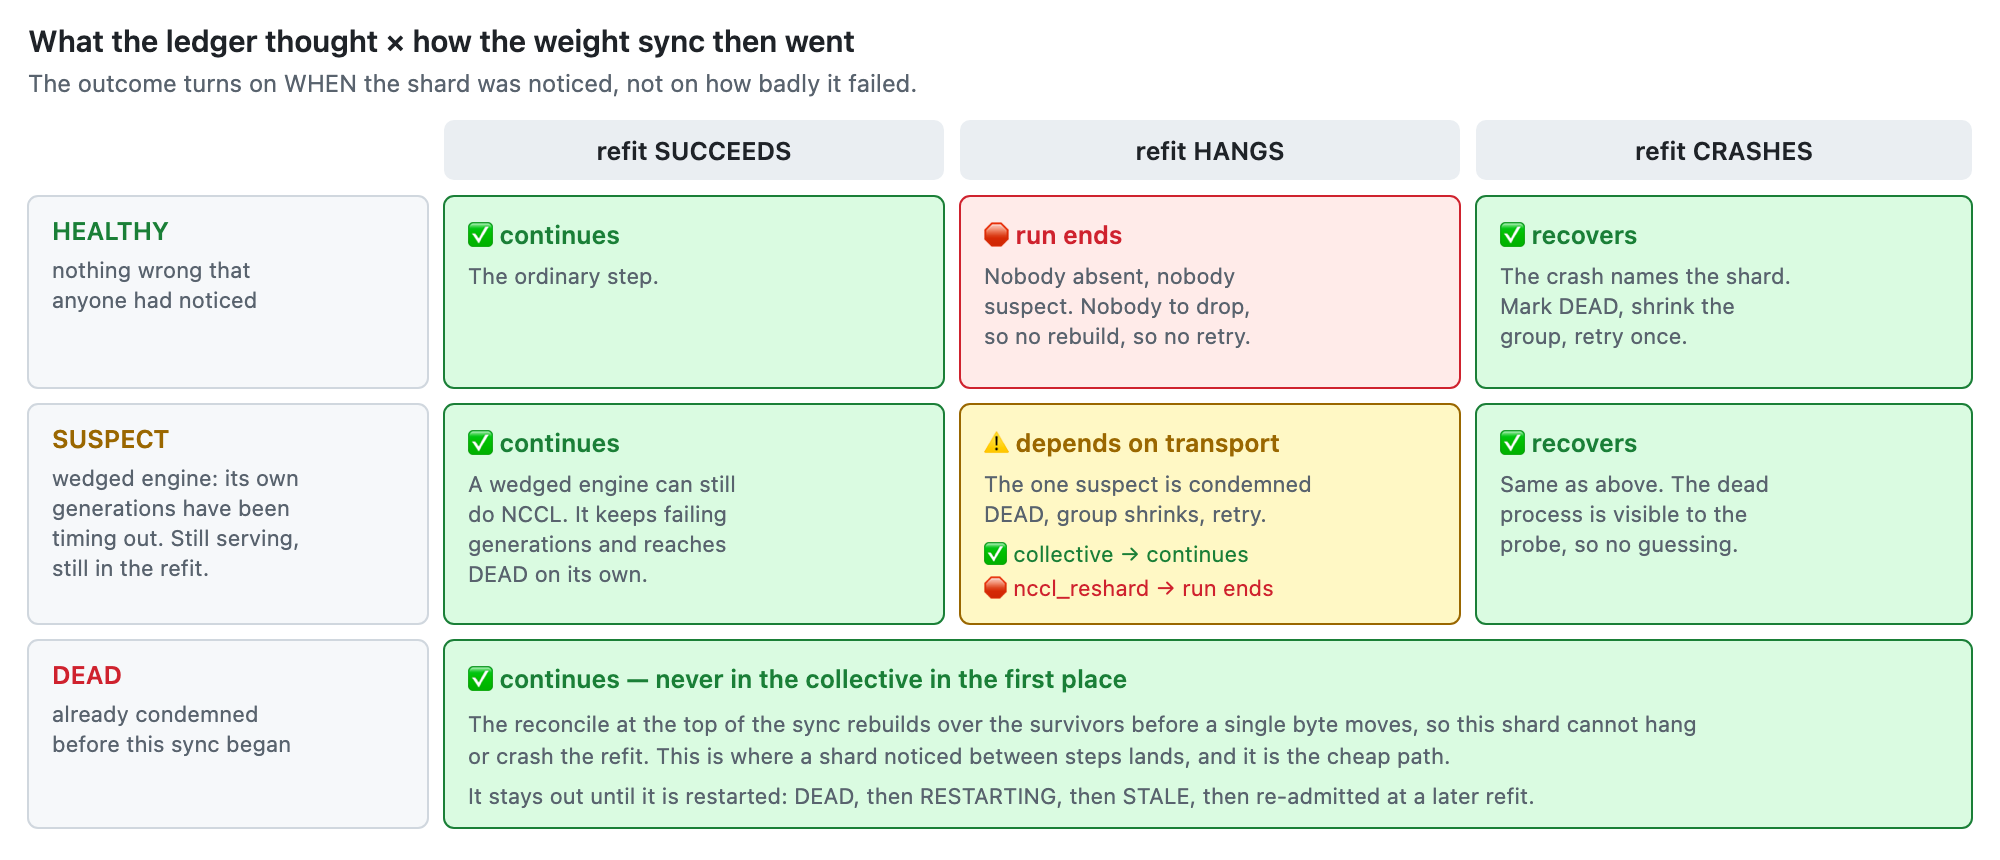
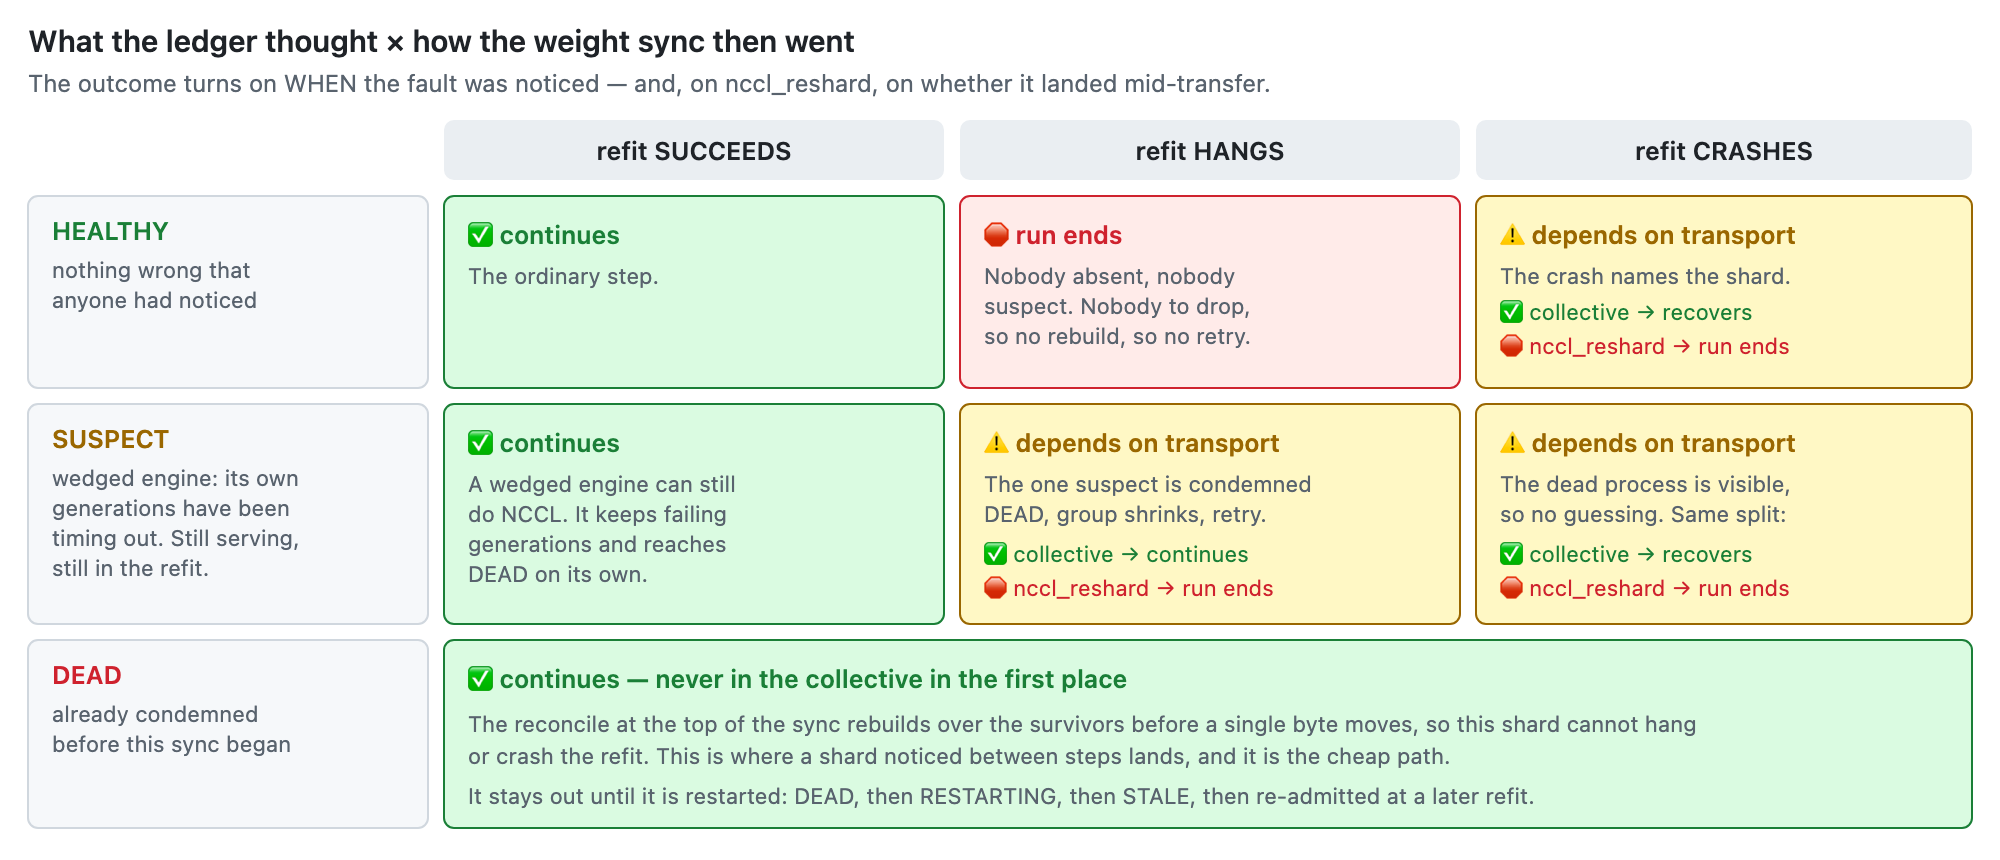
docs(sc): the reshard limit covers crashes mid-transfer too, not just wedges
Since 9a87c0123 on #3591, any fault while the nccl_reshard bulk transfer is in
flight ends the run -- the abort orphans kernels on the trainers' own devices,
so a crash there is no more recoverable than a wedge. The crash cells in the
grid and the failure table are now transport splits like the hang cell, the
support matrix says 'between syncs only', and the wedged-engine section is
renamed to cover both fault kinds.

Changed region(s): [[0.713, 0.2116, 0.992, 0.7256], [0.186, 0.0907, 0.651, 0.1209]]

diff --git a/docs/design-docs/single-controller-fault-tolerance.md b/docs/design-docs/single-controller-fault-tolerance.md
@@ -16,7 +16,7 @@ Know these limits before enabling it.
 | `policy.generation.refit_transport` | Recovers a lost shard |
 |---|---|
 | `collective` (packed broadcast) | ✅ full |
-| `nccl_reshard` | ⚠ dead process only — see [A wedged engine is different](#a-wedged-engine-is-different) |
+| `nccl_reshard` | ⚠ only between syncs — any fault mid-transfer ends the run, fast and with a named cause. See [A mid-sync fault on nccl_reshard](#a-mid-sync-fault-on-nccl_reshard-is-different) |
 | colocated IPC, HTTP, checkpoint-engine, `vllm_remote_sparse` | ❌ no communicator to rebuild |
 
 **Generation backends** — only vLLM implements the fleet-health hooks:
@@ -48,27 +48,34 @@ began, and how the sync then went.
 |---|---|---|---|
 | `HEALTHY` | succeeds | ✅ continues | The ordinary step. |
 | `HEALTHY` | hangs | 🛑 run ends | Every process is alive and nothing was suspect, so there is nobody to drop. Guessing would condemn a healthy shard and leave the real culprit in the group. |
-| `HEALTHY` | crashes | ✅ recovers | The crash names the shard. Mark it dead, rebuild without it, retry once. |
+| `HEALTHY` | crashes | ⚠ depends | The crash names the shard: mark it dead, rebuild without it, retry once. Works on `collective`; ends the run on `nccl_reshard`. |
 | `SUSPECT` | succeeds | ✅ continues | A wedged engine can still do NCCL. It keeps failing generations and reaches `DEAD` on its own. |
 | `SUSPECT` | hangs | ⚠ depends | The one suspect is condemned, the group shrinks, retry once. Works on `collective`; ends the run on `nccl_reshard`. |
-| `SUSPECT` | crashes | ✅ recovers | The dead process is visible, so no attribution is needed. |
+| `SUSPECT` | crashes | ⚠ depends | The dead process is visible, so no attribution is needed. Same split: works on `collective`; ends the run on `nccl_reshard`. |
 | `DEAD` | any | ✅ continues | Already excluded before the collective started, so it cannot affect this refit at all. |
 
 Recovery is **rebuild, then retry once** — and the rebuild needs a shard to drop. That is
-why a crash recovers and a hang only recovers when the ledger already held a suspect.
+why a crash can recover and a hang only recovers when the ledger already held a suspect.
 Retrying without shrinking would rebuild over the same fleet and hang on the same silent
-rank.
+rank. On `nccl_reshard` there is a second requirement: the fault must land outside the
+bulk transfer — see below.
 
 A second failure during the retry ends the run: at that point it is a fault, not a
 membership problem.
 
-### A wedged engine is different
+### A mid-sync fault on `nccl_reshard` is different
 
-An engine whose process is alive but which has stopped generating is the hardest case, and
-`nccl_reshard` cannot recover from it. Aborting a communicator does not retire CUDA work
-already queued on a stream, and on that transport the orphaned kernels sit on the
-**trainers'** devices — so nothing done to the wedged shard retires them. The run ends
-attributably in seconds rather than stalling. On `collective` the same case recovers.
+On `nccl_reshard`, any fault while the bulk transfer is in flight — a crash *or* a wedge —
+cannot be recovered in-process. Aborting a communicator does not retire CUDA work already
+queued on a stream, and on that transport the orphaned kernels sit on the **trainers'**
+devices — so nothing done to the failed shard retires them, and no communicator can be
+rebuilt on a device in that state. The run detects this (the abort carries a dedicated
+marker) and ends in seconds with a message naming the limit, rather than stalling or
+wedging in a rebuild that cannot complete.
+
+A fault that lands **between** syncs is fine on both transports: the shard is dropped
+before the next collective starts, which is the `DEAD` row above. On `collective` the
+mid-sync cases recover too.
 
 ## Configuration
 
